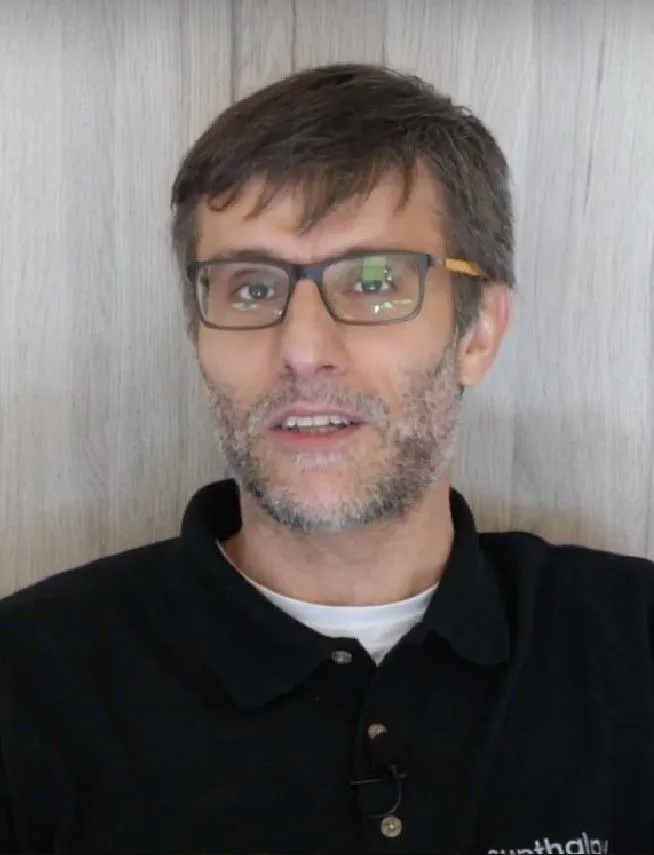
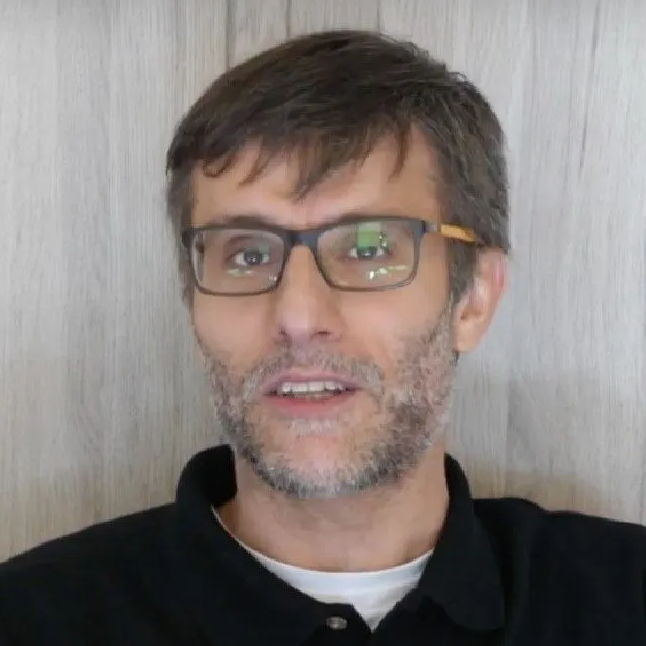
Más patrocinadores

diff --git a/Delegaciones/UVa/Eclipse.md b/Delegaciones/UVa/Eclipse.md
@@ -600,10 +600,13 @@ footer: eclipse
   <h2 class="fw-bold mb-4">Colaboran</h2>
   <div class="d-flex flex-wrap justify-content-center align-items-center gap-5 m-4">
     <a href="https://fundacionlacaixa.org/es/" class="sponsor-card">
-      <img src="{{ site.baseurl }}/Delegaciones/UVa/Imagenes/Logos/Patrocinadores/Logo_horizontal_CMYK_castellano.jpg" alt="Fundación la Caixa" class="img-fluid max-h-24 mw-100 object-fit-contain">
+      <img src="{{ site.baseurl }}/Delegaciones/UVa/Imagenes/Logos/Patrocinadores/Logo_horizontal_CMYK_castellano.jpg" alt="Fundación la Caixa" class="img-fluid max-h-24 mw-100 object-fit-contain" style="height: 150px;">
     </a>
     <a href="https://www.diputaciondepalencia.es/" class="sponsor-card">
       <img src="{{ site.baseurl }}/Delegaciones/UVa/Imagenes/Logos/Patrocinadores/Logo Largo Color Fondo.jpg" alt="Diputación de Palencia" class="img-fluid max-h-24 mw-100 object-fit-contain">
+    </a>
+    <a href=" " class="sponsor-card">
+      <img src="{{ site.baseurl }}/Delegaciones/UVa/Imagenes/Logos/Patrocinadores/ENERPAL.png" alt="Enerpal" class="img-fluid mw-100 object-fit-contain" style="height: 150px;">
     </a>
   </div>
   <div class="d-flex flex-wrap justify-content-center align-items-center gap-5 m-4">
@@ -645,6 +648,21 @@ footer: eclipse
   </a>
   <a href="https://www.grupotecnipec.net/" class="sponsor-card">
     <img src="{{ site.baseurl }}/Delegaciones/UVa/Imagenes/Logos/Patrocinadores/TECNIPEC.jpg" alt="TECNIPEC" class="img-fluid mw-100 object-fit-contain" style="height: 60px;">
+  </a>
+  <a href=" " class="sponsor-card">
+    <img src="{{ site.baseurl }}/Delegaciones/UVa/Imagenes/Logos/Patrocinadores/ARADUEY.jpg" alt="Araduey" class="img-fluid mw-100 object-fit-contain" style="height: 60px;">
+  </a>
+  <a href=" " class="sponsor-card">
+    <img src="{{ site.baseurl }}/Delegaciones/UVa/Imagenes/Logos/Patrocinadores/ELGOSA.png" alt="Elgosa" class="img-fluid mw-100 object-fit-contain" style="height: 60px;">
+  </a>
+  <a href=" " class="sponsor-card">
+    <img src="{{ site.baseurl }}/Delegaciones/UVa/Imagenes/Logos/Patrocinadores/FENÍE.png" alt="Feníe" class="img-fluid mw-100 object-fit-contain" style="height: 60px;">
+  </a>
+  <a href=" " class="sponsor-card">
+    <img src="{{ site.baseurl }}/Delegaciones/UVa/Imagenes/Logos/Patrocinadores/ITAGRA CT.png" alt="Itagra CT" class="img-fluid mw-100 object-fit-contain" style="height: 60px;">
+  </a>
+  <a href=" " class="sponsor-card">
+    <img src="{{ site.baseurl }}/Delegaciones/UVa/Imagenes/Logos/Patrocinadores/JD NAILS.jpeg" alt="JD Nails" class="img-fluid mw-100 object-fit-contain" style="height: 60px;">
   </a>
 </div>
 </section>